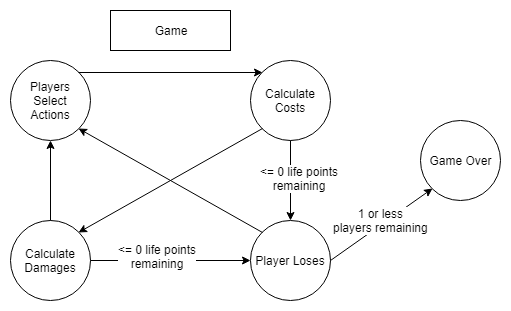
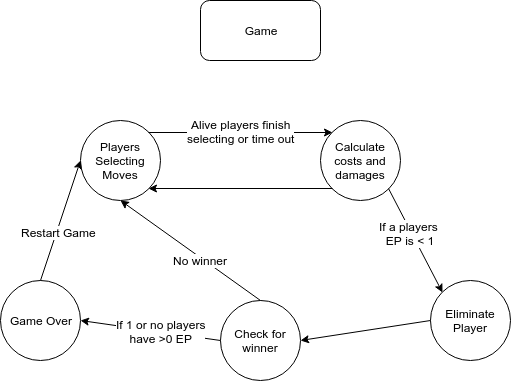
Updated gdd and new diagrams

diff --git a/docs/game-design-doc.md b/docs/game-design-doc.md
@@ -15,29 +15,25 @@ Ryan Taus
 Battle of The Four Gods
 
 ### 1.3 Elevator Pitch
-4 players assume the roles of gods and their struggles against each other. Each round players expend energy points to either attack or defend against each of the other players. Upon reaching 0 energy points a player loses. Last player standing wins.
+4 players assume the roles of gods and their struggles against each other. Each round players expend energy points to either attack or defend against each of the other players. Upon reaching 0 energy points a player loses. The last player standing wins.
 
 ### 1.4 Target Audience
-The game is designed for family and friends who want to play a competitive board game. This game utilizes deceit and teaming up, so it is recommended for players who want a challenge, but don't take actions in game personally.
+The game is designed for family and friends who want to play a competitive board game. This game utilizes deceit and teaming up, so it is recommended for players who want a challenge, but don't take actions in game personally. Additionally, online gamers who like strategy games.
 
 ## 2 Concept
 
 ### 2.1 Story
-The story is minimal. The four players act as gods that are in a constant battle against each other to become the main god of the universe. Only one can assume the role of the sole God.
+The story is minimal. The four players act as gods that are in a constant battle against each other to become the main god of the universe. The battle is nearing the end when the players assume control.
 
 ### 2.2 Requirements to Play
-Board with private spaces for each player to choose their actions.
-
-A method for each player to communicate with any set of player they would like to. (i.e. red and blue, or yellow, green, and red).
+Internet connection and a pointing device for your computer.
 
 ### 2.3 Game Space
 
 ![diagram](game-space.png)
 
 #### Notes:
-Each colored box represents the private space for a player. The white slots are where a player will place the actions they wish to take that turn. Then the actions are revealed.
-
-The circles labeled EP represent the Energy Points remaining for each player. This is outside the box because it is public knowledge at all time.
+The game space is seen on each of the four players computers. Each player is indicated which color they are. The arrows and rectangles represent attacking and defending the other players.
 
 ### 2.4 Game State
 ![diagram](game-state-player.png)
@@ -48,17 +44,17 @@ The circles labeled EP represent the Energy Points remaining for each player. Th
 ![diagram](game-flow.png)
 
 * Setup (Green): Players choose their colors and set up their respective blind spots.
-* Main Gameplay Loop (Orange): Players have 30 seconds to select their actions. They place their actions behind their screens and when time is up reveal their actions. Then they decrease their total LP for each action they select. Then, Players reduce their LP for each time they are hit with an attack they did not defend. Table Talk is encouraged.
-* Elimination (Purple): If a player reaches 0 LP they are eliminated. If 3 players are eliminated the last character remaining wins.
+* Main Gameplay Loop (Orange): Players have 30 seconds to select their actions. They place their actions behind their screens and when time is up reveal their actions. Then they decrease their total EP for each action they select. Then, Players reduce their EP for each time they are hit with an attack they did not defend. Table Talk is encouraged.
+* Elimination (Purple): If a player reaches 0 EP they are eliminated. If 3 players are eliminated the last character remaining wins.
 
 ## 3 Rules, Abbreviated
 Full rules here: [rules](./rule-book.md)
 
-A game consists of multiple rounds. Each round consists of 2 phases. The move selection phase and the damage calculation phase. During the move selection phase each player in secret chooses anywhere from 0-3 actions. An action can be to attack or defend any of the other players. Next, the players all reveal their actions synchronously. Players deduct from their current LP 1 point for each action they selected. Next, for each time a player receives an attack without defending it they lose 3 LP. If a player is reduced to 0 LP they are eliminated. (A player cannot commit more actions than their remaining LP, however, they may reduce themselves to 0). (If a player is eliminated their attacks still got through for that round). If a player is eliminated the remaining players can no longer attack or defend from the eliminated player. This continues until only one player remains.
+The game is played in a sequence of rounds.
 
-If no scores change for 5 turns in a row then every player loses 1 LP at the end of each round.
+If no scores change for 5 turns in a row then every player loses 1 EP at the end of each round.
 
-If 2 players are eliminated at the same time the player who has a higher LP wins.
+If 2 players are eliminated at the same time the player who has a higher EP wins.
 
 #### Starting Conditions
-Each Player Starts with 100 Life Points (LP).
+Each Player Starts with 40 Engergy Points (EP).
